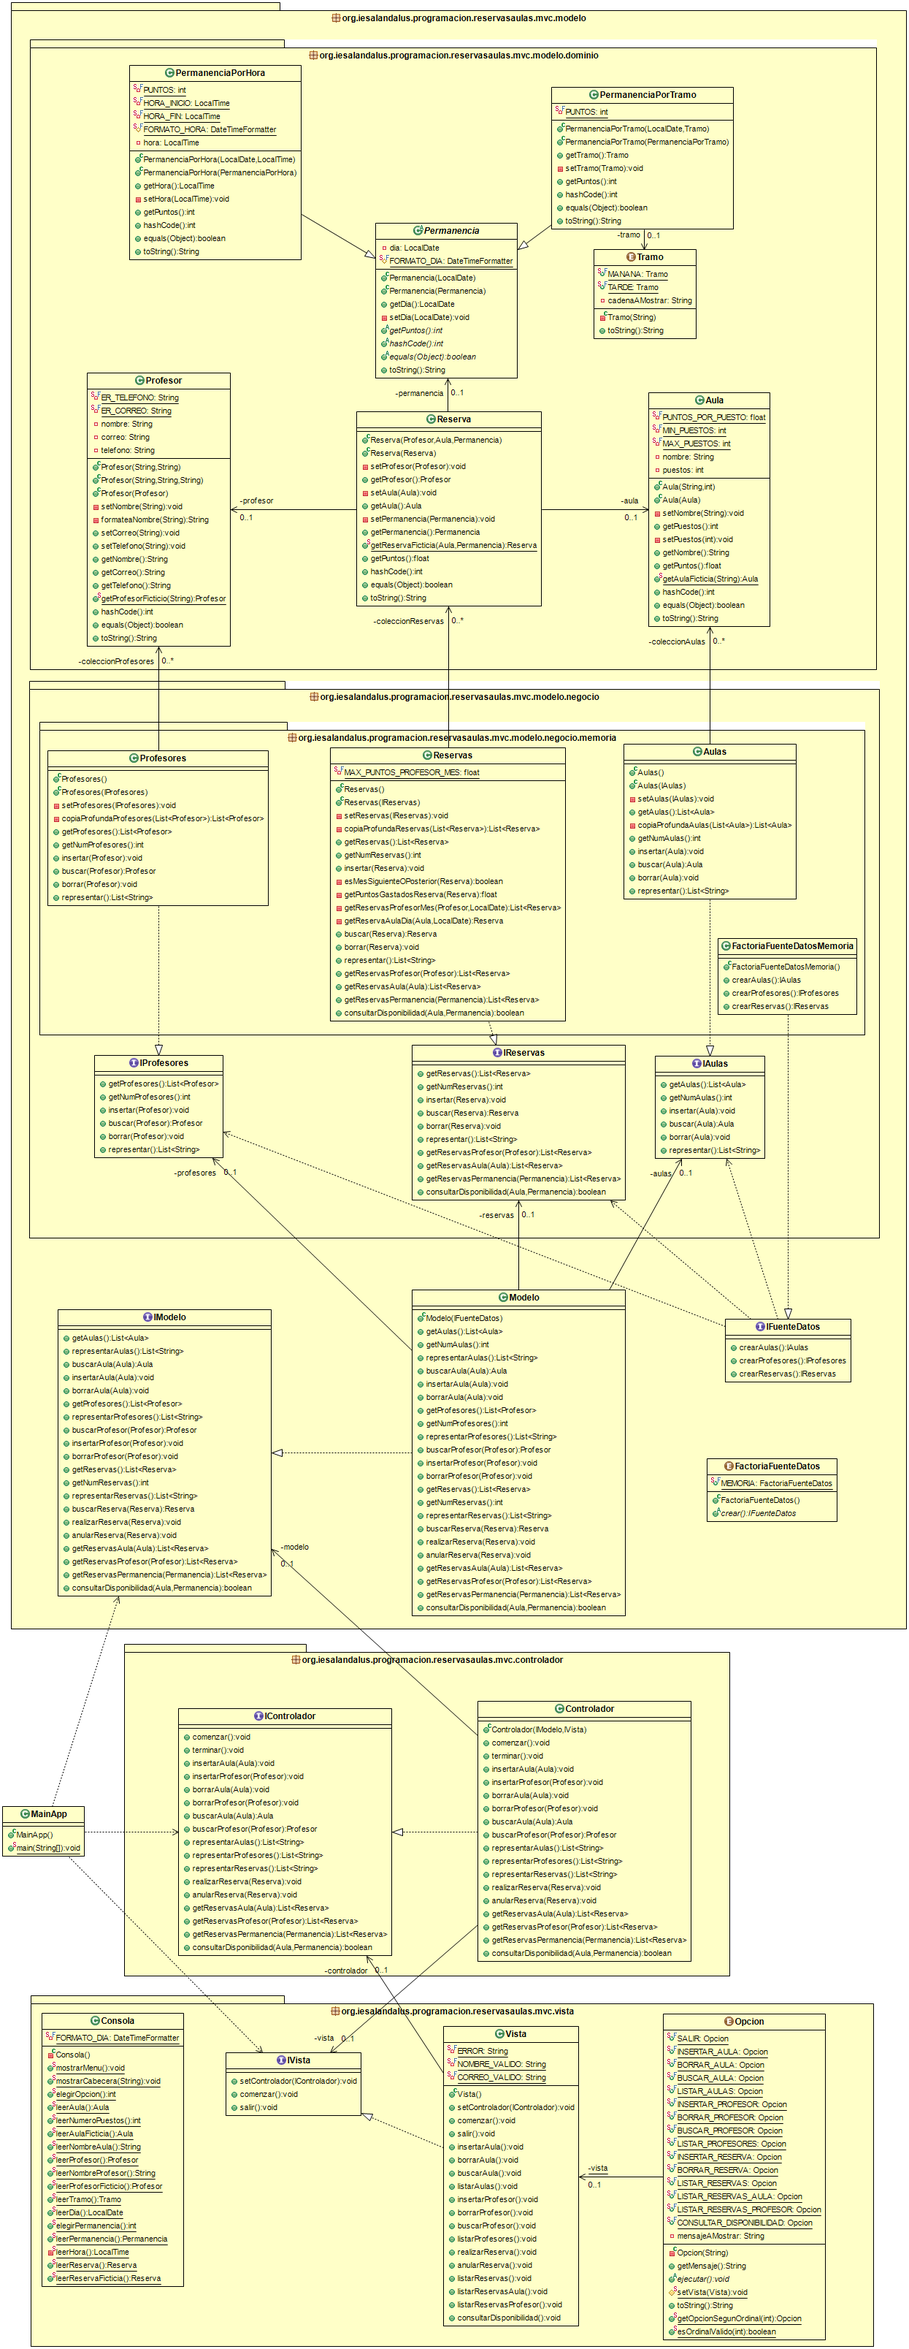
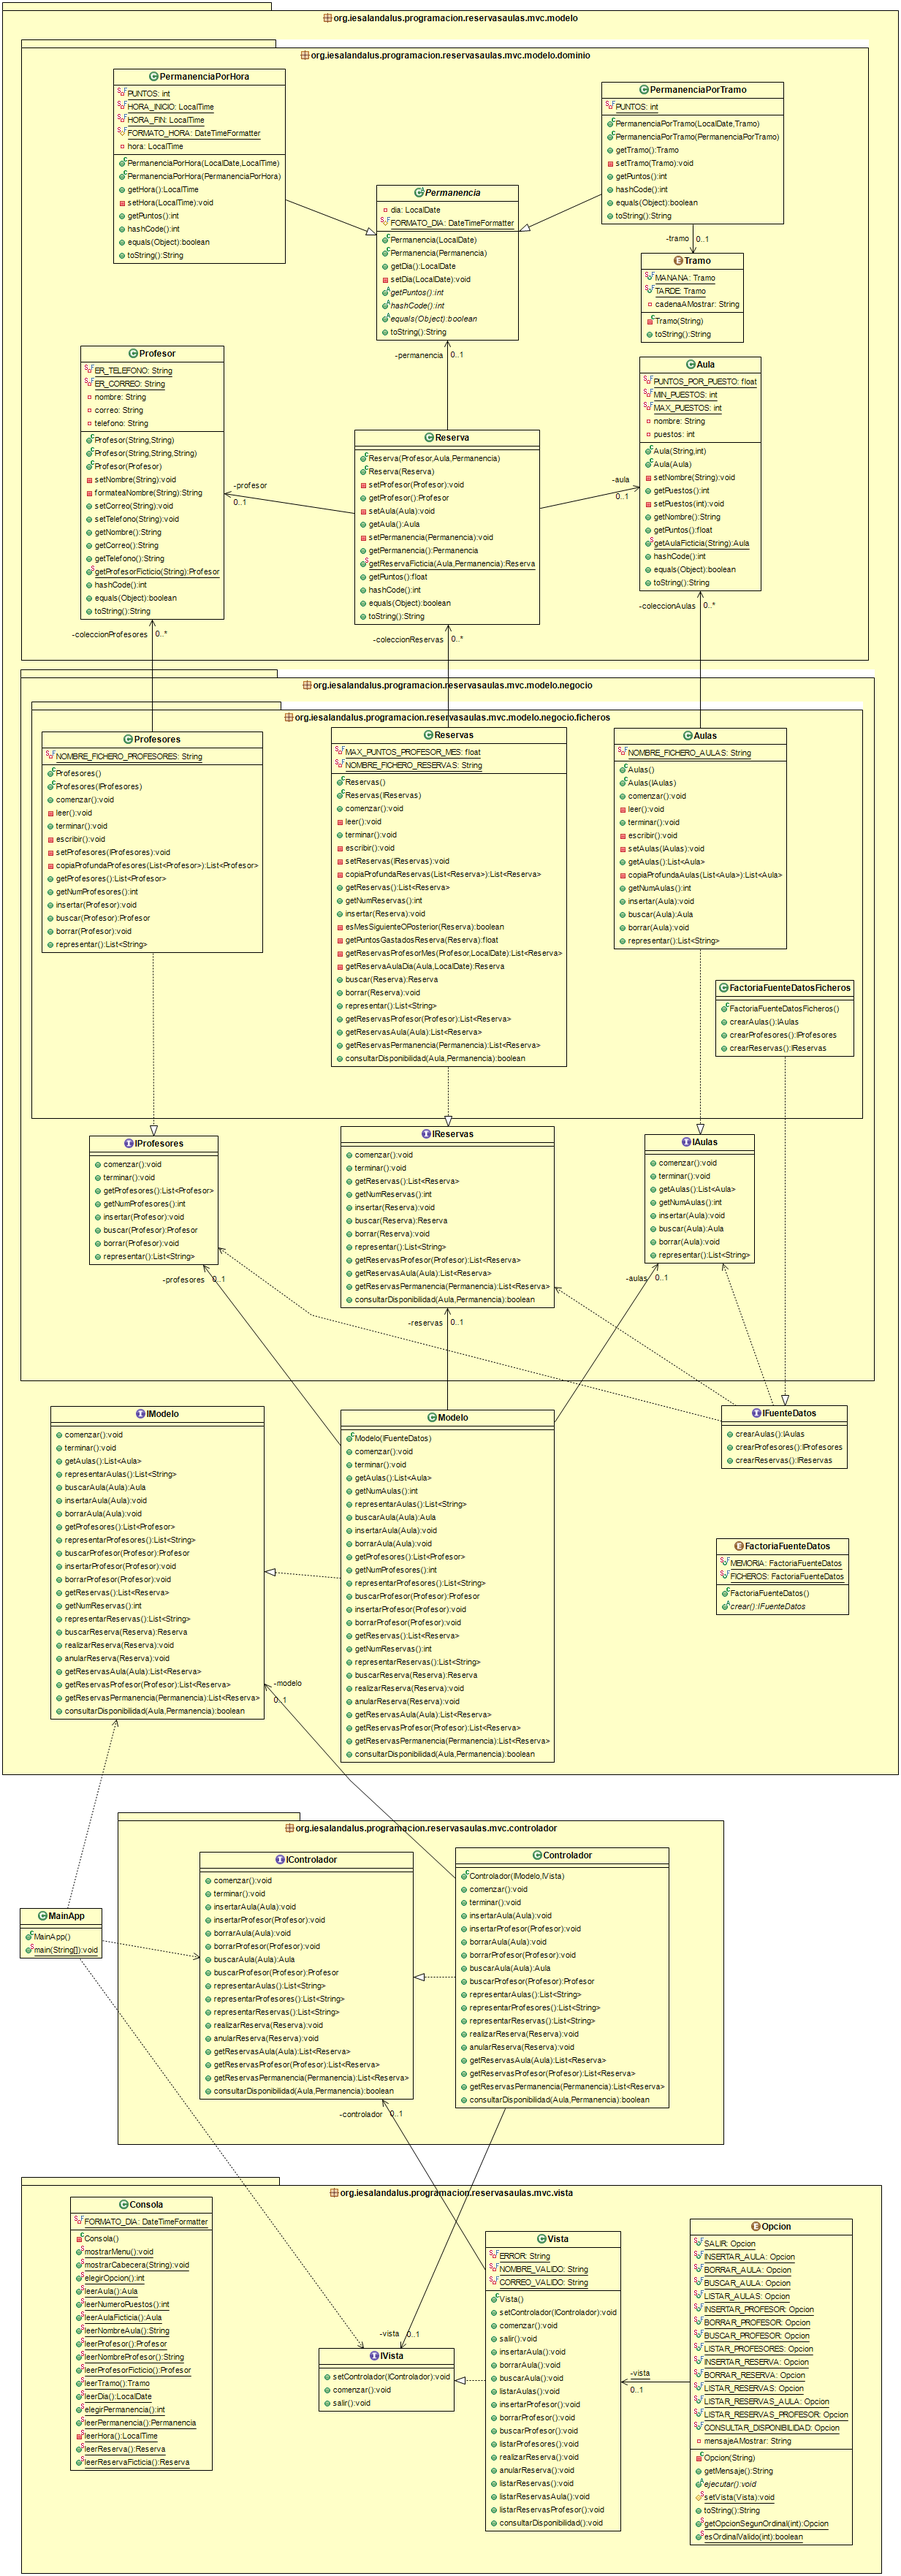
JFHA: 2. Cambiamos:
· README.md para v3.
· Nombre del proyecto de v2 a v3.
· Cambiamos la imagen del diagrama de clases.

diff --git a/README.md b/README.md
@@ -2,60 +2,30 @@
 ## Profesor: Andrés Rubio del Río
 ## Alumno: José Francisco Hernández Allen
 
-Desde el IES Al-Ándalus nos comentan que debemos tener en cuenta los siguientes aspectos:
+Desde el IES Al-Ándalus nos acaban de comentar que por favor añadamos persistencia a los datos introducidos, ya que tal y como está ahora la aplicación no es funcional. Por tanto, en este cuarto spring añadiremos persistencia a los datos utilizando para ello ficheros de objetos, para lo que sustituiremos el modelo que teníamos de memoria, por un modelo de ficheros.
 
-- Las aulas se pueden reservar para una permanencia por tramo (de mañana o de tarde) o para una permanencia por horas. La permanencia por horas se hará por horas en punto y no serán anteriores a las 8:00h ni posteriores a las 22:00h.
-- Si para un día se realiza una reserva con permanencia por tramo, para ese día no se podrán hacer reservas por horas y viceversa.
-- Las aulas deben tener información sobre el número de puestos de cada una.
-- Las reservas no se pueden realizar para el mes en curso (sólo para el mes que viene o posteriores).
-- Tampoco podemos anular una reserva a no ser que sea para el mes siguiente o posteriores.
-- En el centro se lleva un sistema de puntos que cada profesor gasta al hacer una reserva:
-    - Una permanencia por tramo restará 10 puntos.
-    - Una permanencia por hora restará 3 puntos.
-    - Un aula restará 0,5 puntos por el número de puestos del aula.
-    - Una reserva restará la suma del número de puntos de la permanencia más el número de puntos del aula.
-    - Un profesor tiene disponibles cada mes 200 puntos por lo que si cuando va a realizar una reserva el número de puntos gastados ese mes más el número de puntos de la reserva que quiere realizar supera ese límite no dejará realizar la reserva.
-    
-Por tanto, en este **tercer spring** abarcaremos todos estos requisitos. Para ello se propone seguir el siguiente diagrama de clases:   
+El diagrama de clases queda como te muestro a continuación y poco a poco te iré explicando los diferentes pasos a realizar:
 
-![Diagrama de clases para reservasaulas](https://github.com/andresrubiodelrio/ReservasAulas-v2/blob/main/src/main/resources/reservasaulas.png)
-
-He subido a GitHub un esqueleto de proyecto gradle que ya lleva incluidos todos los test necesarios que el programa debe pasar. Dichos test están todos comentados y deberás ir descomentándolos conforme vayas avanzando con la tarea. La URL del repositorio es en la que te encuentras.
+![Diagrama de clases para reservasaulas](ReservaAulas-V3/src/main/resources/reservasAulas.png)
 
 Por tanto, tu tarea va a consistir en completar los siguientes apartados:
 
-1. Lo primero que debes hacer es realizar un **fork** del repositorio donde he colocado el proyecto gradle con la estructura del proyecto y todos los test necesarios.
-2. Clona tu repositorio remoto recién copiado en github a un repositorio local que será donde irás realizando lo que a continuación se te pide. Añade tu nombre al fichero `README.md` en el apartado "Alumno". Haz tu primer commit.
-3. Haz las modificaciones necesarias en la clase `Aula` para incluir el atributo puestos e implementar el método **getPuntos**. Haz un commit.
-4. Haz las modificaciones necesarias en la clase `Profesor` para que dos profesores sean iguales si tienen el mismo correo. Además, añade un nuevo método llamado **getProfesorFicticio** que devuelve un profesor a partir de un correo del mismo.
-5. Modifica la clase `Reserva` para añadir un método **getReservaFicticia** que a través de un aula y de una permanencia recibidas como parámetros, obtenga un profesor ficticio y devuelve una reserva.
-6. Convierte la clase `Permanencia` en una clase abstracta y haz que el método **getPuntos** sea abstracto. Esta clase sólo tendrá como atributo el día de la permanencia. Haz un commit.
-7. Crea la clase `PermanenciaPorTramo` que herede de `Permanencia`, que implemente el método **getPuntos** y que posea el atributo **tramo**. Haz un commit.
-8. Crea la clase `PermanenciaPorHora` que herede de `Permanencia`, que implemente el método **getPuntos** y que posea el atributo **hora**. Esta clase debe contemplar los requisitos expuestos en el enunciado para las horas. Haz un commit.
-9. Haz las modificaciones necesarias en la clase Reserva para que
-    - Un aula se pueda reservar por un profesor para una permanencia por tramo o por horas y que implemente el método **getPuntos**. Haz un commit.
-    - Se tengan en cuenta las restricciones comentadas en el enunciado sobre no poder reservar aulas para el mes en curso y que no se sobrepase el límite de puntos de un profesor para el mes en el que quiere realizar la reserva. Haz un commit.
-10. Haz las modificaciones necesarias en la clase `Consola` para que se incluyan los métodos descritos a continuación:
-    - **leerProfesorFicticio**, que a partir de un correo obtendrá un profesor. Haz un commit.
-    - **leerNumeroPuestos**, que lee el número de puestos que va a tener un aula. Haz un commit.
-    - **leerAulaFicticia**, que a partir de un nombre obtendrá un objeto de tipo Aula. Haz un commit.
-    - **leerHora**, que pedirá al usuario una hora en formato HH:mm de la que se hará uso en el caso de leer una permanencia por hora. Haz un commit.
-    - **elegirPermanencia**, que permite elegir entre una permanencia por tramo o por hora. Haz un commit.
-    - **leerPermanencia**, que en función de la permanencia elegida  por el usuario, devolverá una permanencia de tipo tramo o de tipo hora, pidiendo toda la información necesaria al usuario para tal fin. Haz un commit.
-    - **leerReserva**, que a partir de un aula ficticia, de un profesor ficticio y de una permanencia, devuelve una reserva. Haz un commit.
-    - **leerReservaFicticia**, que a partir de un aula ficticia y de una permanencia, devuelve reserva ficticia. Haz un commit.
-11. Haz las modificaciones necesarias en la clase `Vista` para que:
-    - Desde el método **realizarReserva** se haga uso del método **leerReserva** de la clase `Consola`, eliminando el método **leerReserva** de la clase Vista. Haz un commit.
-    - Desde el método **anularReserva** se haga uso del método **leerReservaFicticia** de la clase `Consola`. Haz un commit.
-    - Elimina el método **listarReservasPermanencia** ya que esta información puede ser obtenida a través de **listarReservas**. Haz un commit.
-12. Modifica el Enum `Opcion` ya que la opción **listarReservasPermanencia** no estará disponible. Haz un commit.
-13. Crea las interfaces para el **controlador, la vista y el modelo** y haz que se utilicen desde la aplicación principal. Haz un commit.
+1. Crea un nuevo repositorio remoto en github y llámalo reservasAulas-v3.
+2. Actualiza el fichero README.md en tu proyecto Eclipse utilizando el que puedes descargar desde el siguiente enlace y añade tu nombre en el apartado "Alumno". Realiza un commit.
+3. Haz que las clases de dominio (para las que sea necesario) sean serializables para que se puedan leer y escribir de ficheros de objetos. Realiza un commit.
+4. Implementa los métodos de lectura y escritura para la clase Aulas. Realiza un commit.
+5. Implementa los métodos de lectura y escritura para la clase Profesores. Realiza un commit.
+6. Implementa los métodos de lectura y escritura para la clase Reservas. Realiza un commit.
+7. Haz que estos métodos sean accesibles desde el controlador, por lo que deberás modificar la clase Modelo y la interfaz IModelo. Realiza un commit.
+8. Actualiza la clase FactoriaFuenteDatos para que contemple la opción de ficheros. Realiza un commit.
+9. Haz las modificaciones oportunas en la clase Controlador para que al comenzar se leen los diferentes ficheros y al salir se escriban los mismos. Realiza un commit y súbelo a tu nuevo repositorio remoto.
+
 
 ###### Se valorará:
-- La nomenclatura del repositorio de GitHub y del archivo entregado sigue las indicaciones de entrega.
-- La indentación debe ser correcta en cada uno de los apartados.
-- El nombre de las variables debe ser adecuado.
-- Se debe utilizar la clase `Entrada` para realizar la entrada por teclado.
-- El proyecto debe pasar todas las pruebas que van en el esqueleto del mismo y toda entrada del programa será validada para evitar que el programa termine abruptamente debido a una excepción.
-- Se deben utilizar los comentarios adecuados.
-- Se valorará la corrección ortográfica tanto en los comentarios como en los mensajes que se muestren al usuario.
+-	La nomenclatura del repositorio de GitHub y del archivo entregado sigue las indicaciones de entrega.
+-	La indentación debe ser correcta en cada uno de los apartados.
+-	El nombre de las variables debe ser adecuado.
+-	Se debe utilizar la clase Entrada para realizar la entrada por teclado.
+-	El proyecto debe pasar todas las pruebas que van en el esqueleto del mismo y toda entrada del programa será validada para evitar que el programa termine abruptamente debido a una excepción.
+-	Se deben utilizar los comentarios adecuados.
+-	Se valorará la corrección ortográfica tanto en los comentarios como en los mensajes que se muestren al usuario.
